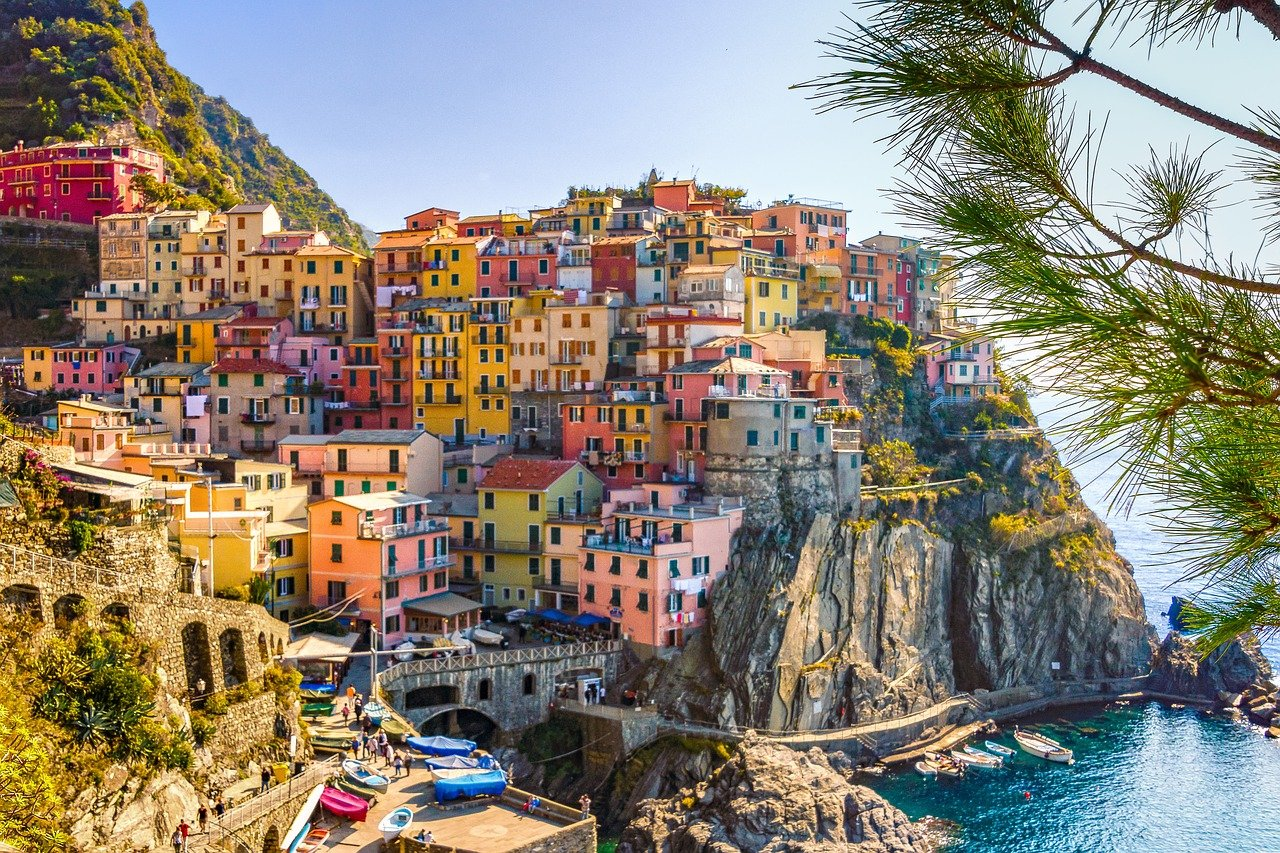
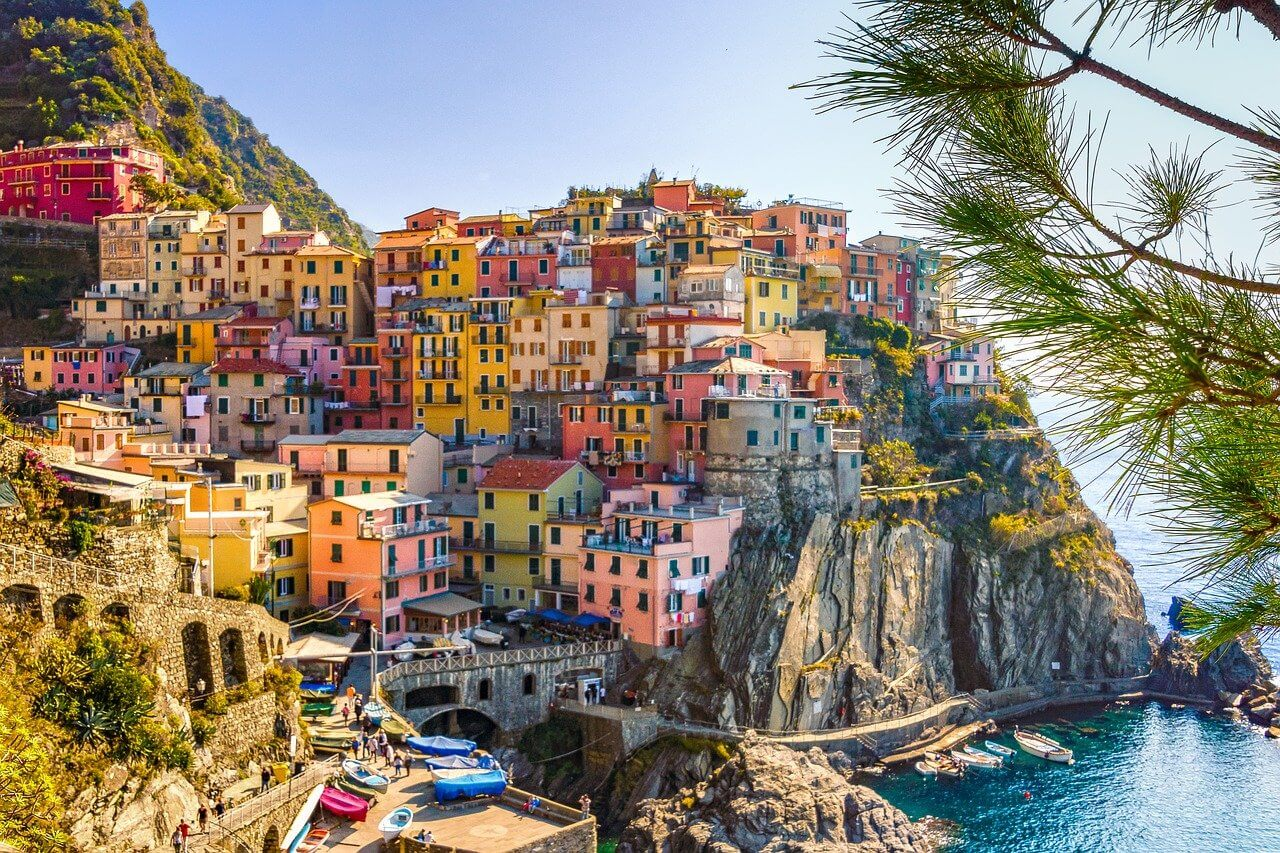
fix: compressed img

diff --git a/index.html b/index.html
@@ -196,7 +196,7 @@
     <!-- /.container -->
   </section>
   <section class="newsletter" data-parallax="scroll" data-image-src="img/newsletter-bg.jpg">
-    <div class="newsletter-wrapper" data-aos="fade-up" dara-aos-duration="700">
+    <div class="newsletter-wrapper" data-aos="fade-up" data-aos-duration="700">
       <h2 class="newsletter-title newsletter__title">
         subscribe to our
         <span class="newsletter-title__strong">Newsletter</span>
